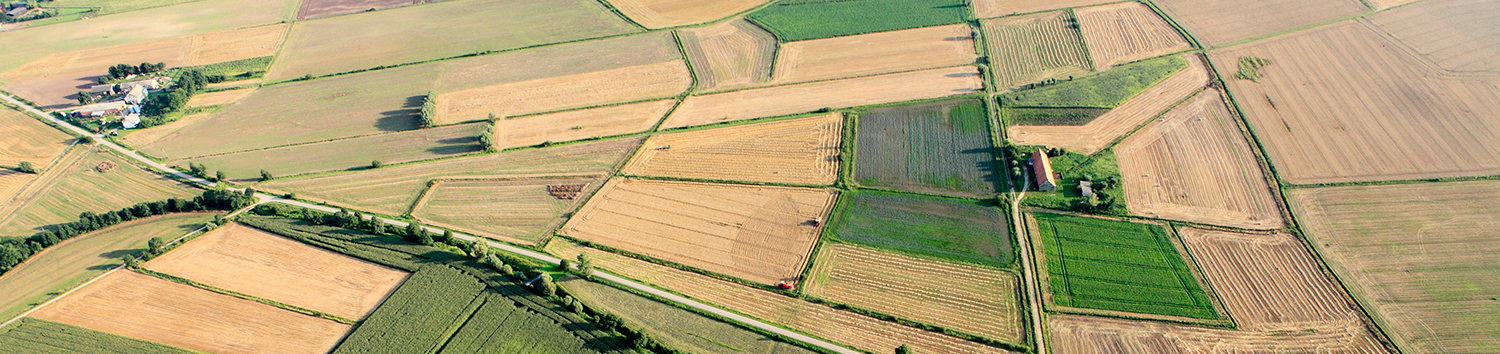
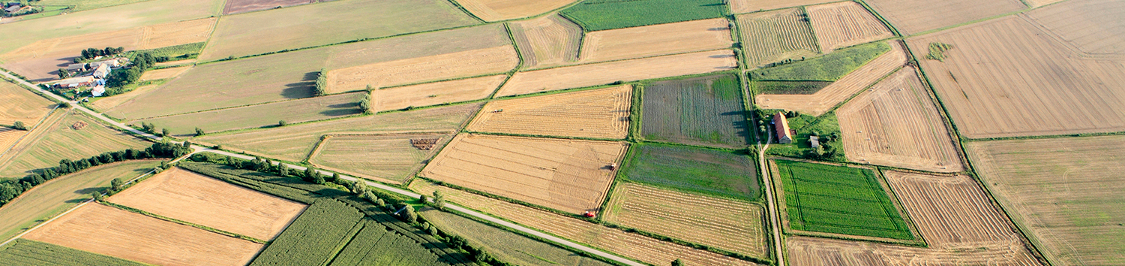
[refs #88278] Optimize homepage.
* spritesheet for icons
* smaller preview image for news
* reduced image sizes

diff --git a/land/copernicus/theme/skins/copernicus_theme_images/sprites/land-icons.html b/land/copernicus/theme/skins/copernicus_theme_images/sprites/land-icons.html
@@ -1,0 +1,11 @@
[11 lines of base64/hex data omitted]

diff --git a/land/copernicus/theme/skins/copernicus_theme_styles/redesign-app.css b/land/copernicus/theme/skins/copernicus_theme_styles/redesign-app.css
@@ -6375,6 +6375,7 @@ button.close {
   width: 90%; }
 
 .land-box1 {
+  border: 6px solid transparent;
   width: 100%;
   height: 200px; }
   .land-box1 .land-icon-box {
@@ -7301,3 +7302,22 @@ ul.user-corner-menu .fa {
     left: -30px;
   }
 }
+
+
+/* Homepage icons */
+
+/* Generated by http://responsive-css.spritegen.com Responsive CSS Sprite Generator */
+
+.sprite { max-width: 100%; background-size: 100%; background-image: url('sprites/land-icons.png'); }
+
+.land-icon-global { background-position: 0 0%; background-size: 100%; }
+.land-icon-local { background-position: 0 17.869657%; background-size: 100%; }
+.land-icon-pan-european { background-position: 0 35.739313%; background-size: 100%; }
+.land-icon-reference-data { background-position: 0 53.60897%; background-size: 100%; }
+.land-icon-land-use-cases { background-position: 0 64.679772%; background-size: 182.481752%; }
+.land-icon-publications { background-position: 0 70.754717%; background-size: 215.517241%; }
+.land-icon-contract-oportunities { background-position: 0 76.348808%; background-size: 242.718447%; }
+.land-icon-technical-library { background-position: 0 82.334385%; background-size: 252.525253%; }
+.land-icon-eagle { background-position: 0 88.846641%; background-size: 277.777778%; }
+.land-icon-ask { background-position: 0 94.479297%; background-size: 301.204819%; }
+.land-icon-faq { background-position: 0 100%; background-size: 301.204819%; }

diff --git a/land/copernicus/theme/skins/copernicus_theme_images/sprites/land-icons.css b/land/copernicus/theme/skins/copernicus_theme_images/sprites/land-icons.css
@@ -1,0 +1,18 @@
+/* Generated by http://responsive-css.spritegen.com Responsive CSS Sprite Generator */
+
+.land-icon-global, .land-icon-local, .land-icon-pan-european, .land-icon-reference-data, .land-icon-land-use-cases,
+.land-icon-publications, .land-icon-contract-oportunities, .land-icon-technical-library, .land-icon-eagle, .land-icon-ask,
+.land-icon-faq
+{ max-width: 100%; background-size: 100%; background-image: url('png.png'); }
+
+.land-icon-global { background-position: 0 0%; background-size: 100%; }
+.land-icon-local { background-position: 0 17.869657%; background-size: 100%; }
+.land-icon-pan-european { background-position: 0 35.739313%; background-size: 100%; }
+.land-icon-reference-data { background-position: 0 53.60897%; background-size: 100%; }
+.land-icon-land-use-cases { background-position: 0 64.679772%; background-size: 182.481752%; }
+.land-icon-publications { background-position: 0 70.754717%; background-size: 215.517241%; }
+.land-icon-contract-oportunities { background-position: 0 76.348808%; background-size: 242.718447%; }
+.land-icon-technical-library { background-position: 0 82.334385%; background-size: 252.525253%; }
+.land-icon-eagle { background-position: 0 88.846641%; background-size: 277.777778%; }
+.land-icon-ask { background-position: 0 94.479297%; background-size: 301.204819%; }
+.land-icon-faq { background-position: 0 100%; background-size: 301.204819%; }

diff --git a/land/copernicus/theme/browser/viewlets.py b/land/copernicus/theme/browser/viewlets.py
@@ -5,6 +5,10 @@ from Products.Five.browser.pagetemplatefile import ViewPageTemplateFile
 from time import time
 
 
+MAX_NUMBER_NEWS = 2
+MAX_NUMBER_EVENTS = 2
+
+
 class CopernicusFooterInfoViewlet(ViewletBase):
     render = ViewPageTemplateFile('footer_info.pt')
 
@@ -29,46 +33,32 @@ class CopernicusFooterInfoViewlet(ViewletBase):
 class CopernicusEventsViewlet(ViewletBase):
     render = ViewPageTemplateFile('events.pt')
 
-    def events(self):
-        MAX_NUMBER_EVENTS = 2
-        now = DateTime()
-
+    def events(self, limit=MAX_NUMBER_EVENTS):
         catalog = self.context.portal_catalog
         query = {
             'portal_type': 'Event',
             'sort_on': 'start',
             'sort_order': 'ascending',
-            'review_state': 'published'
+            'review_state': 'published',
+            'end': {
+                'query': DateTime(),
+                'range': 'min'
+            },
+            'sort_limit': limit,
         }
-        events_brains = catalog(**query)
-
-        future_events = []
-        for event_brain in events_brains:
-            event = event_brain.getObject()
-            end_date = event.getField('endDate').getAccessor(event)()
-            if end_date >= now:
-                future_events.append(event_brain)
-
-        return future_events[:MAX_NUMBER_EVENTS]
+        return catalog(**query)[:limit]
 
 
 class CopernicusNewsViewlet(ViewletBase):
     render = ViewPageTemplateFile('news.pt')
 
-    def news(self):
-        MAX_NUMBER_NEWS = 2
-
+    def news(self, limit=MAX_NUMBER_NEWS):
         catalog = self.context.portal_catalog
         query = {
             'portal_type': 'News Item',
             'sort_on': 'Date',
             'sort_order': 'descending',
-            'review_state': 'published'
+            'review_state': 'published',
+            'sort_limit': limit,
         }
-        news_brains = catalog(**query)
-
-        news = []
-        for news_brain in news_brains:
-            news.append(news_brain)
-
-        return news[:MAX_NUMBER_NEWS]
+        return catalog(**query)[:limit]
